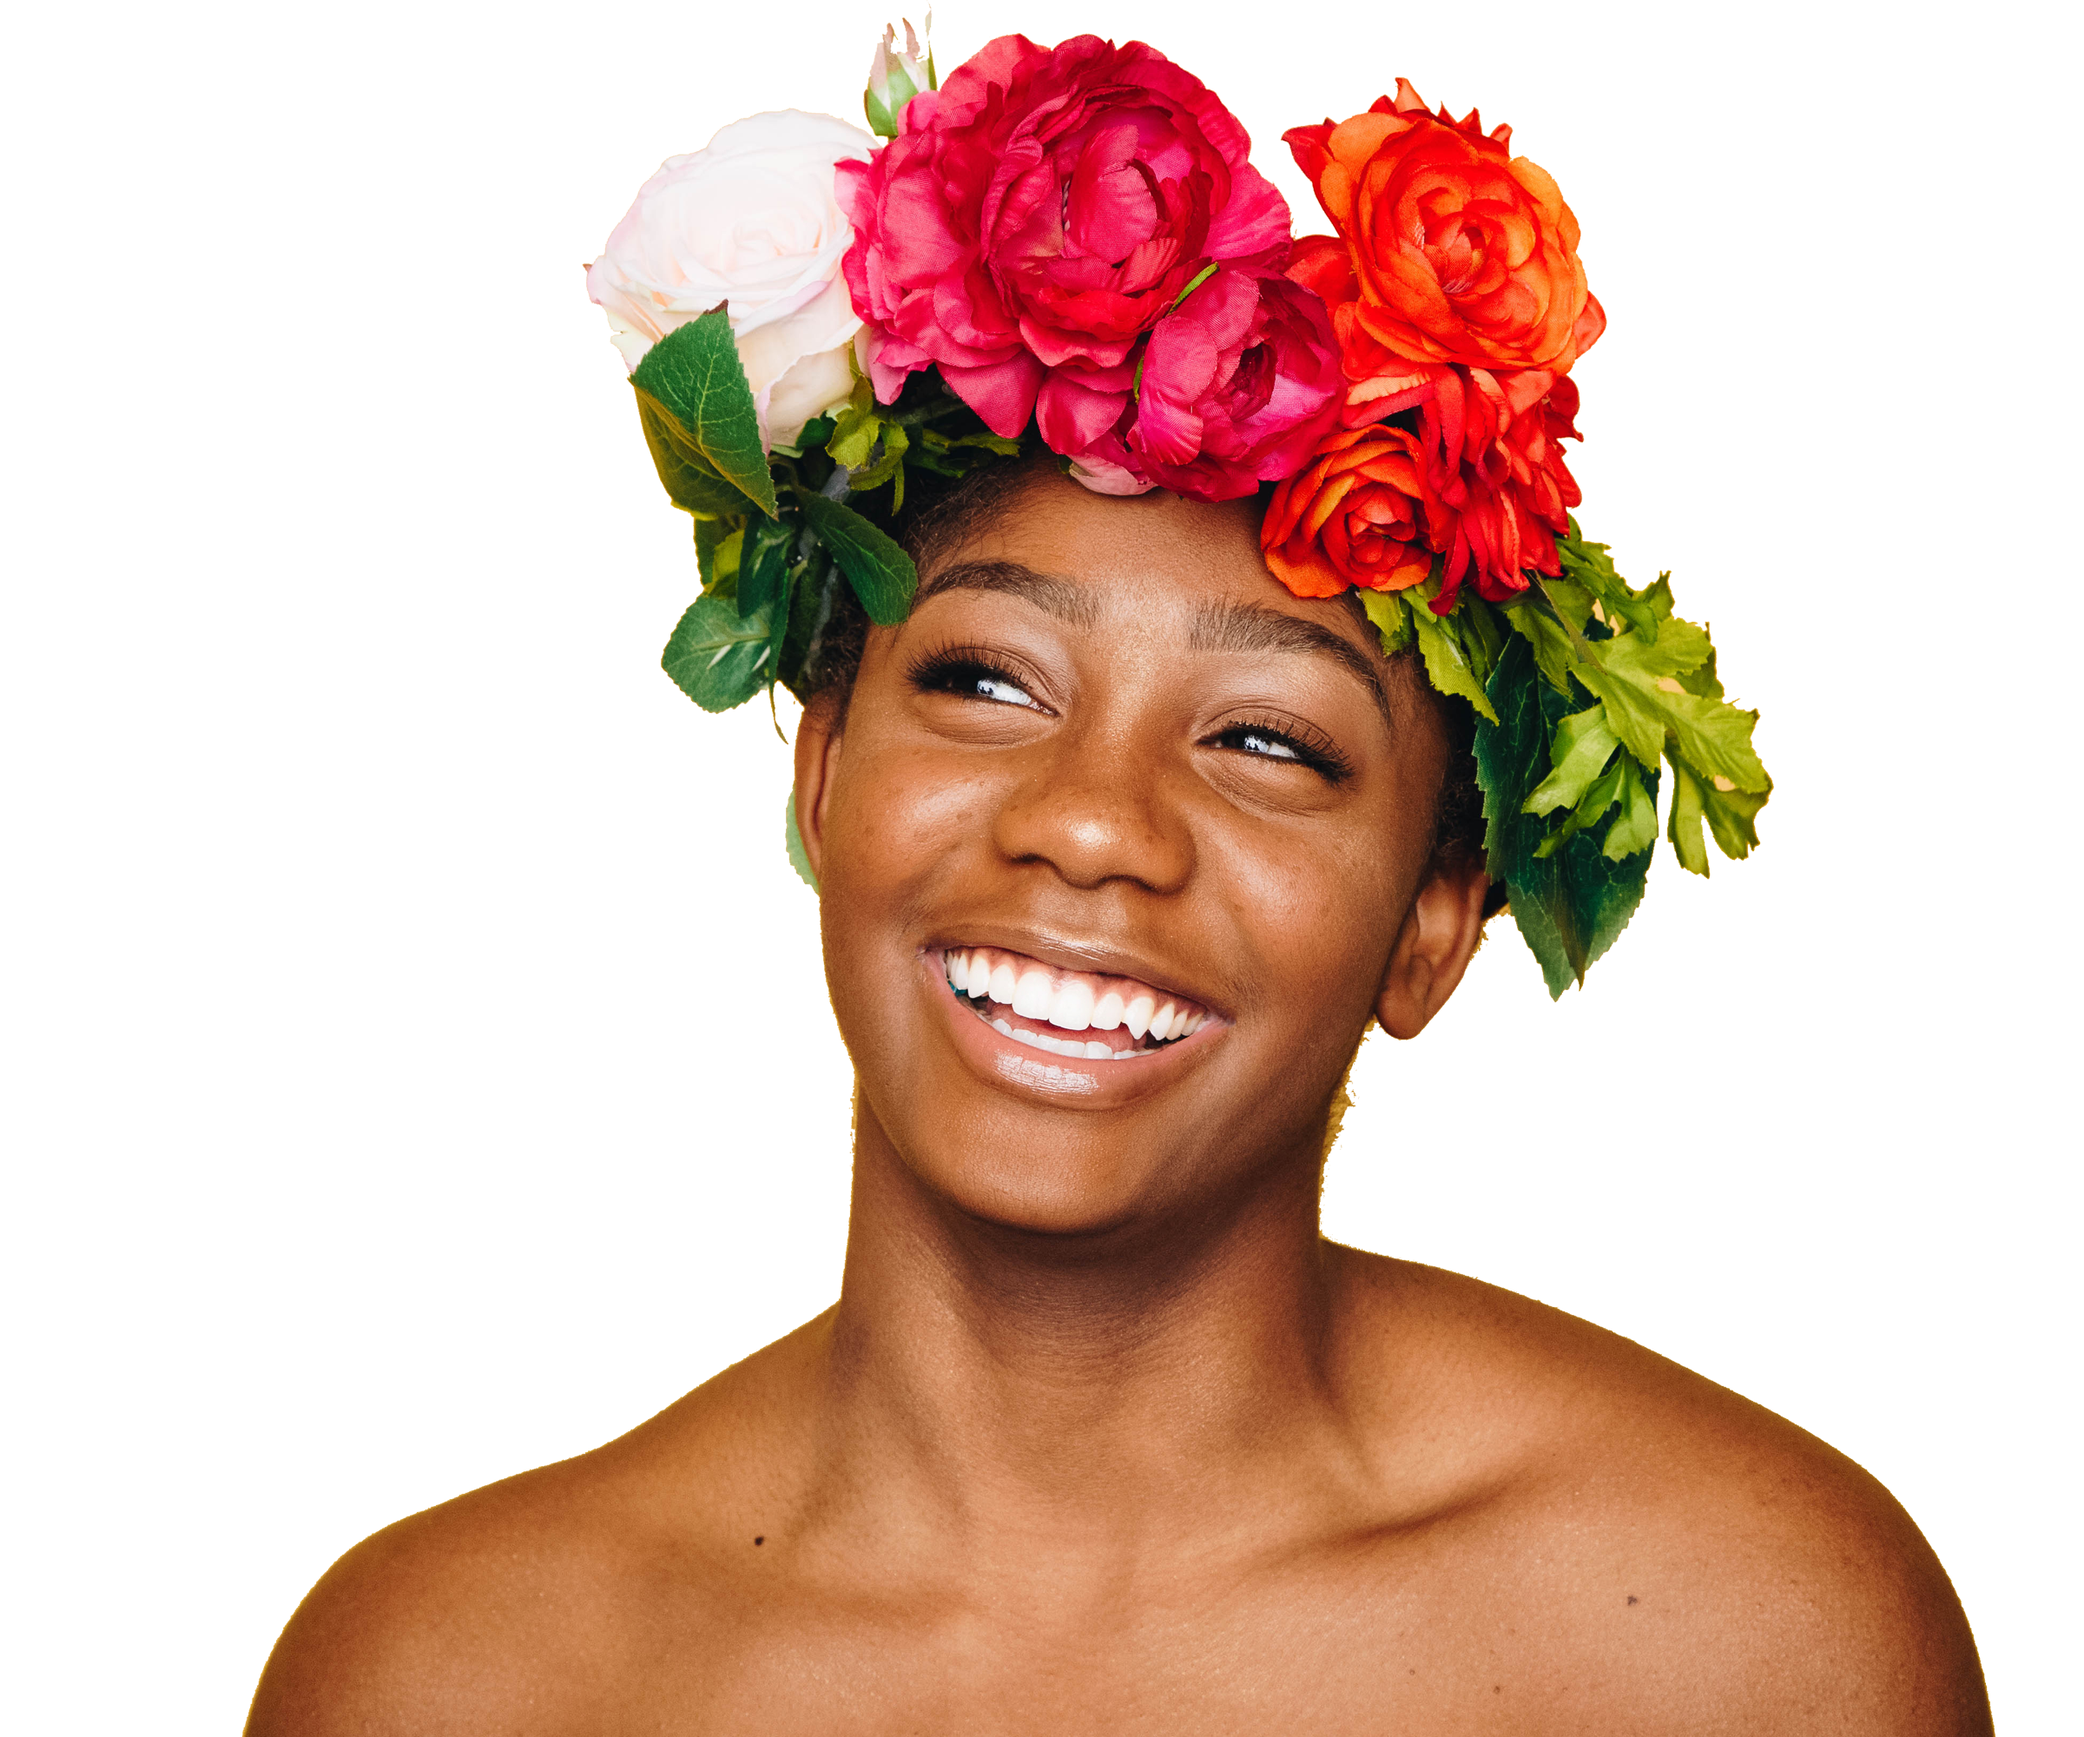
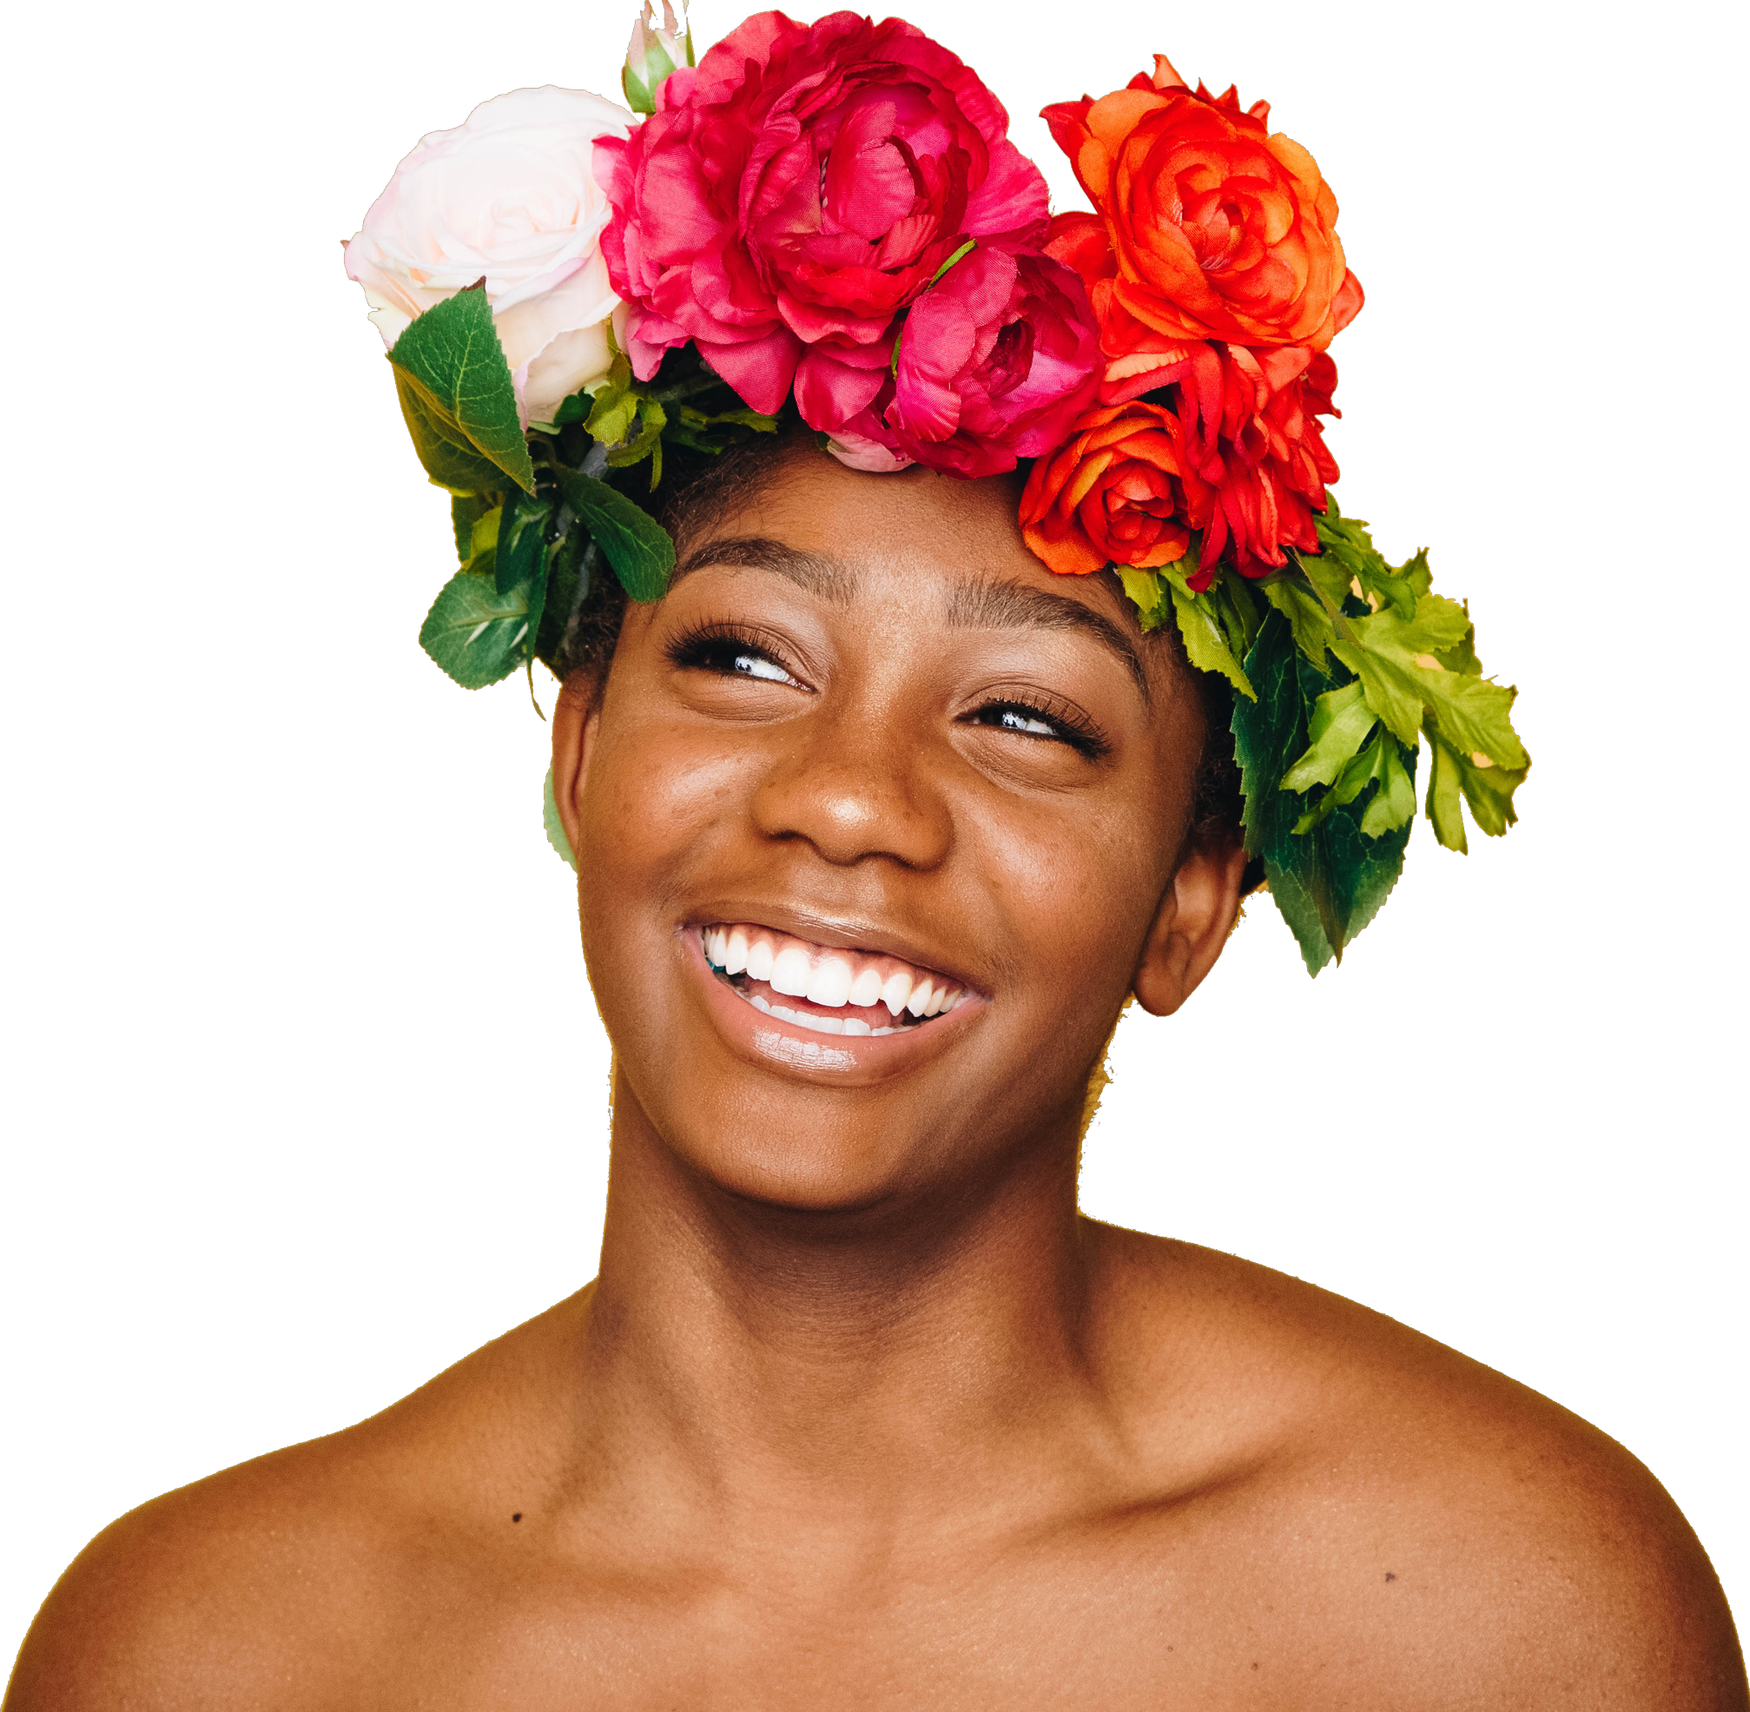
More improvements + home page

diff --git a/app/assets/stylesheets/main.css b/app/assets/stylesheets/main.css
@@ -190,16 +190,32 @@
     padding: 0;
 }
 
-.content-container-home .image-home{
+
+
+.content-container-home .image-home-higher{
     width:100%;
     height:auto;
-    position: absolute;
-    margin: auto;
-    top: 0;
-    left: 0;
-    right: 0;
-    bottom: 0;
+    position:absolute;
+    top:0;
+    bottom:0;
+    left:0;
+    right:0;
+    margin:auto;
 }
+
+.content-container-home .image-home-wider{
+    width:auto;
+    height:100%;
+    margin:auto;
+    position:absolute;
+    top:0;
+    bottom:0;
+    left:0;
+    right:0;
+    margin:auto;
+}
+
+
 
 .section-head{
     height:8vh;
@@ -417,7 +433,7 @@
             padding: 0;
         }
 
-        .content-container-home .image-home{
+  /*      .content-container-home .image-home{
             width:auto;
             height:100%;
             position: absolute;
@@ -426,7 +442,7 @@
             left: 0;
             right: 0;
             bottom: 0;
-        }
+        }   */
 
 
         .content-container-services{
@@ -442,6 +458,15 @@
         .service-table td{
             width:100%;
             display:inline-block;
+        }
+
+        .service-table td .service-images{
+          left: 10%;
+          right: 10%;
+          width:auto;
+          height: 30vh;
+          cursor: pointer;
+
         }
 
          .header{
@@ -532,5 +557,7 @@
             width:35px;
 
         }
+
+
 
 }

diff --git a/app/assets/javascripts/ng-app/directives/homeSection.js b/app/assets/javascripts/ng-app/directives/homeSection.js
@@ -10,6 +10,27 @@
 
           scope.imagesHome = ImageSharing.home.desk;
 
+          var imageContainer = $('.image-home-container');
+          var img = element.find('img');
+
+
+          var imageAdjHeightWidth = function(){
+              if(imageContainer.height() >= imageContainer.width()){
+                   img.removeClass('image-home-wider').addClass('image-home-higher');
+
+              }else{
+                   img.removeClass('image-home-higher').addClass('image-home-wider');
+              }
+          };
+
+          img.bind('load',function(){
+                imageAdjHeightWidth();
+          });
+
+          $(window).on("resize", function(){
+                imageAdjHeightWidth();
+          });
+
           }
 
         }

diff --git a/app/assets/templates/home_section.html b/app/assets/templates/home_section.html
@@ -1,6 +1,6 @@
 <section>
     <div class = 'content-container-home '>
        <div class ="moto-container" >Moj moto</div>
-       <div class='image-home-container'><img class ='image-home'  ng-src= '{{imagesHome.main}}' alt="homepage-img" ></div>
+       <div class='image-home-container'><img  ng-src= '{{imagesHome.main}}' alt="homepage-img"></div>
     </div>
 </section>
